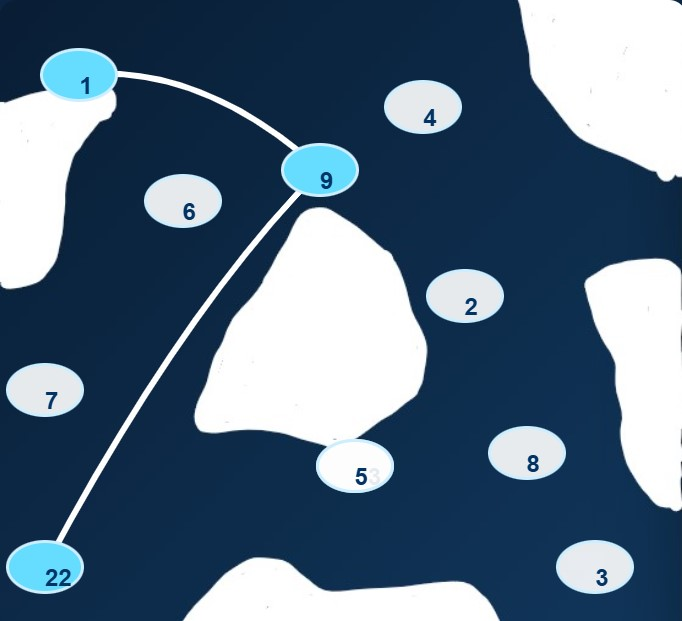
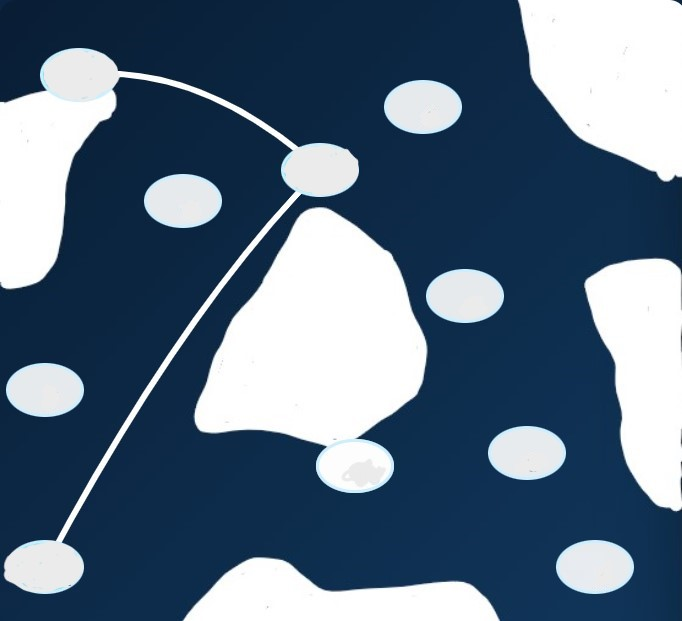
Riddles

diff --git a/Riddle/riddle_2.html b/Riddle/riddle_2.html
@@ -16,7 +16,6 @@
         </p>
         <div class="ice-game">
             <svg id="lineLayer"></svg>
-
             <button class="number-dot" data-number="1" style="left:10%; top:10%;">1</button>
             <button class="number-dot" data-number="2" style="left:66%; top:45%;">2</button>
             <button class="number-dot" data-number="4" style="left:60%; top:15%;">4</button>
@@ -31,6 +30,10 @@
         </div>
 
         <p id="feedback"></p>
+        <button class="submit-button" id="check_nansen">
+            Check Answer
+        </button>
+
         <button class="submit-button" id="submit_nansen" onclick="window.location.href='riddle_2_location.html'" style="display:none;">
             Continue
         </button>
@@ -46,6 +49,7 @@
             const feedback = document.getElementById("feedback");
             const game = document.querySelector(".ice-game");
             const btn_submit = document.getElementById("submit_nansen");
+            const btn_check = document.getElementById("check_nansen");
 
             buttons.forEach(button => {
                 button.addEventListener("click", () => {
@@ -54,24 +58,31 @@
                     selected.push(button);
                     button.classList.add("selected");
 
+                    feedback.textContent = "";
                     drawCurvedLines();
-
-                    const currentAnswer = selected.map(btn => btn.dataset.number);
-
-                    if (selected.length === correctAnswer.length) {
-                        if (JSON.stringify(currentAnswer) === JSON.stringify(correctAnswer)) {
-                            feedback.textContent = "Correct! The path through the ice is revealed.";
-                            feedback.style.color = "lightgreen";
-                            btn_submit.style.display = "block";
-
-                        } else {
-                            feedback.textContent = "Not quite. Try again.";
-                            feedback.style.color = "orange";
-                            setTimeout(resetGame, 10000);
-                        }
-                    }
                 });
             });
+
+            btn_check.addEventListener("click", () => {
+                checkAnswer();
+            });
+
+            function checkAnswer() {
+                const currentAnswer = selected.map(btn => btn.dataset.number);
+
+                if (JSON.stringify(currentAnswer) === JSON.stringify(correctAnswer)) {
+                    feedback.textContent = "Correct! The path through the ice is revealed.";
+                    feedback.style.color = "lightgreen";
+
+                    btn_submit.style.display = "";
+                    btn_check.style.display = "none";
+                } else {
+                    feedback.textContent = "Not quite. Try again.";
+                    feedback.style.color = "orange";
+
+                    setTimeout(resetGame, 1500);
+                }
+            }
 
             function drawCurvedLines() {
                 svg.innerHTML = "";
@@ -113,10 +124,12 @@
                 selected = [];
                 svg.innerHTML = "";
                 feedback.textContent = "";
+                btn_submit.style.display = "none";
+                btn_check.style.display = "";
+
                 buttons.forEach(btn => btn.classList.remove("selected"));
             }
         </script>
-
     </div>
 </body>
 </html>

diff --git a/Riddle/riddle_6_feedback.html b/Riddle/riddle_6_feedback.html
@@ -55,13 +55,14 @@
             transform-origin: top;
         }
 
-        .letter p {
-            color: #2b2418;
-        }
-        .letter.open {
-            display: block;
-            animation: unfold 0.8s ease-out forwards;
-        }
+            .letter p {
+                color: #2b2418;
+            }
+
+            .letter.open {
+                display: block;
+                animation: unfold 0.8s ease-out forwards;
+            }
 
         @keyframes unfold {
             from {
@@ -95,66 +96,55 @@
 
         <div id="letter" class="letter">
 
-            <h3>Dispatch from Roald Amundsen</h3>
+            <h3>Dispatch from Henry Rudi</h3>
 
             <p>
                 Explorer,
             </p>
 
             <p>
-                Thank you for your help. The safety depot has been located and the crew
-                now has supplies to continue their journey.
+                Thank you for your help. I checked the ice, the wind, and the weather conditions.
+                The crew now has the safest date to leave the ice.
             </p>
 
             <p>
-                I have enclosed the coordinates of the depot and the location of your
-                next contact.
-            </p>
-
-            <p>
-                The next clue awaits with <strong>Henry Rudi</strong>.
+                This date is the final code for the last riddle.
             </p>
 
             <div class="coordinates">
-                <strong>Safety Depot Coordinates</strong><br>
-                78°13'N, 15°38'E
-            </div>
-
-            <div class="coordinates">
-                <strong>Next Mission</strong><br>
-                📍 Henri Rudi (Olhallen)
+                <strong>Final Code</strong><br>
+                Departure Date: 14.5
             </div>
 
             <p>
-                Good luck, explorer.
-                The crew is counting on you.
+                Now you have everything together: the correct route, the radio frequency,
+                the safety depot coordinates, and the right date to leave.
             </p>
 
             <p>
-                — Roald Amundsen
+                Send all information to the lost crew and help them escape the ice.
             </p>
 
-            <button class="location" id="location">
-                Open in Google Maps
-            </button>
+            <p>
+                Good luck, explorer. Their lives depend on you.
+            </p>
+
+            <p>
+                — Henry Rudi
+            </p>
 
             <button class="submit-button" id="submit">
-                Continue
+                Send Final Rescue Message
             </button>
-
         </div>
     </div>
     <script>
         const submitButton = document.getElementById("submit");
-        const mapButton = document.getElementById("location");
 
         submitButton.addEventListener("click", () => {
-            window.location.href = "../Stations/HTML/station_6.html";
+            window.location.href = "../final_page.html";
         });
 
-        mapButton.addEventListener("click", () => {
-            window.location.href = "https://www.google.com/maps/search/Olhallen";
-        });
         function openLetter() {
             document
                 .getElementById("letter")

diff --git a/Riddle/riddle_5.html b/Riddle/riddle_5.html
@@ -42,9 +42,9 @@
                 <div class="ship-name">&#9973; Fram</div>
                 <select id="fram">
                     <option value="">Choose...</option>
-                    <option value="southpole">South Pole</option>
                     <option value="northwest">North-West Passage</option>
                     <option value="northeast">North-East Passage</option>
+                    <option value="southpole">South Pole</option>
                     <option value="northpole">North Pole</option>
                 </select>
             </div>
@@ -53,9 +53,9 @@
                 <div class="ship-name">&#9973; Gjøa</div>
                 <select id="gjoa">
                     <option value="">Choose...</option>
-                    <option value="southpole">South Pole</option>
                     <option value="northwest">North-West Passage</option>
                     <option value="northeast">North-East Passage</option>
+                    <option value="southpole">South Pole</option>
                     <option value="northpole">North Pole</option>
                 </select>
             </div>
@@ -64,9 +64,9 @@
                 <div class="ship-name">&#9973; Maud</div>
                 <select id="maud">
                     <option value="">Choose...</option>
-                    <option value="southpole">South Pole</option>
                     <option value="northwest">North-West Passage</option>
                     <option value="northeast">North-East Passage</option>
+                    <option value="southpole">South Pole</option>
                     <option value="northpole">North Pole</option>
                 </select>
             </div>
@@ -75,9 +75,9 @@
                 <div class="ship-name">&#9992; Norge</div>
                 <select id="norge">
                     <option value="">Choose...</option>
-                    <option value="southpole">South Pole</option>
                     <option value="northwest">North-West Passage</option>
                     <option value="northeast">North-East Passage</option>
+                    <option value="southpole">South Pole</option>
                     <option value="northpole">North Pole</option>
                 </select>
             </div>

diff --git a/Riddle/riddle_2_location.html b/Riddle/riddle_2_location.html
@@ -6,12 +6,27 @@
     <title> Next location Wanny Woldstad </title>
     <link rel="stylesheet" href="../CSS/global.css"> <!-- link to style sheet -->
     <link rel="stylesheet" href="../CSS/riddle.css">
+    <style>
+        /* Specific style for solution image */
+        .solution-container { 
+            width:120px; /* Fixed values */
+            height: 120px;
+            overflow: hidden; /* Cuts the image out */
+            margin-left: auto;
+            margin-right: auto; /* Center it*/
+        }
+    </style>
 </head>
 <body>
     <div class="box">
         <h2>✓ MISSION COMPLETE</h2>
 
         <p>You have decoded the explorer's message.</p>
+        <p>You know which route the lost crew has to take through the ice.</p>
+        <p> Remember it!</p>
+        <div class="solution-container">
+            <img src="../Images/Answer_1_final.jpg" alt="Station 1" class="imag-station">
+        </div>
         <p>The rescue team now knows where to continue the search.</p>
 
         <h3>Your next destination:</h3>

diff --git a/Riddle/riddle_6.html b/Riddle/riddle_6.html
@@ -28,7 +28,7 @@
         </div>
 
         <p class="hint">
-            Top floor windows → Lanterns → Doors
+            Doors → Top floor windows →  Lanterns
         </p>
 
         <button class="submit-button" onclick="checkLock()">Unlock</button>
@@ -47,12 +47,12 @@
             const code = d1 + d2 + d3;
             const feedback = document.getElementById("feedback");
 
-            if (code === "451") {
+            if (code === "145") {
                 feedback.textContent = "Click! The lock opens.";
                 feedback.style.color = "lightgreen";
 
                 setTimeout(() => {
-                    window.location.href = "../final_page.html";
+                    window.location.href = "riddle_6_feedback.html";
                 }, 1200);
             } else {
                 feedback.textContent = "Still locked. Count carefully.";

diff --git a/Riddle/riddle_3_part2.html b/Riddle/riddle_3_part2.html
@@ -17,6 +17,7 @@
         <!-- -->
         <input id="answerInput" placeholder="Enter frequency">
         <button id="checkBtn">Transmit</button>
+        <p id="feedback"></p>
         <button class="submit-button" id="submit" onclick="window.location.href='riddle_3_location.html'">
             Continue
         </button>
@@ -31,12 +32,12 @@
                 .toLowerCase()
                 .replace(/\s+/g, "");
             if (
-                answer === "91" ||
-                answer === "91mhz"
+                answer === "111" ||
+                answer === "111ghz"
             ) {
                 window.location.href = "../Stations/HTML/station_4.html";
             } else {
-                alert("Wrong frequency. Try again!");
+                feedback.textContent = "Wrong frequency. Try again.";
             }
         });
     </script>

diff --git a/Riddle/riddle_4.html b/Riddle/riddle_4.html
@@ -11,7 +11,7 @@
 <body>
     <div class="box">
         <h2>Monument Cube Riddle</h2>
-        <p>Count the fish on the monument to find two starting numbers.</p>
+        <p>Count the fish on the monument to find the two starting numbers.</p>
         <p>Hint: Each opposite side must add up to 10.</p>
         <div class="cube-scene">
             <div class="monument-holder">
@@ -40,7 +40,6 @@
         </div>
         <button onclick="checkCube()">Check Answer</button>
 
-        <p id="feedback"></p>
         <p id="feedback"></p>
 
         <button class="submit-button" id="submit" onclick="window.location.href='riddle_4_part2.html'">

diff --git a/Riddle/riddle_3_location.html b/Riddle/riddle_3_location.html
@@ -12,6 +12,7 @@
         <h2>✓ MISSION COMPLETE</h2>
 
         <p>You have decoded the explorer's message.</p>
+        <p>The right frequency for communication is 111 GHz.</p>
         <p>The rescue team now knows where to continue the search.</p>
 
         <h3>Your next destination:</h3>
